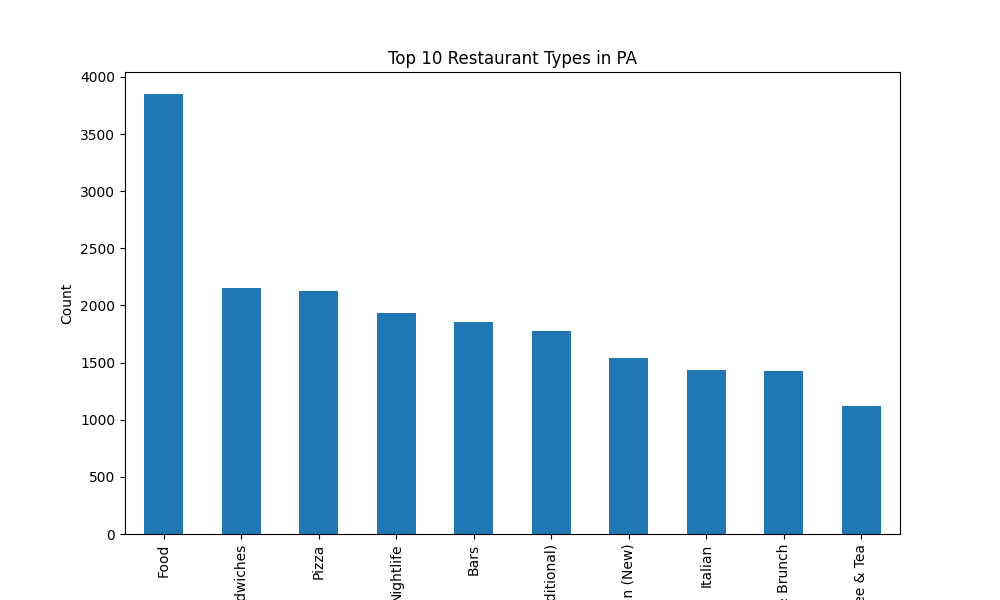
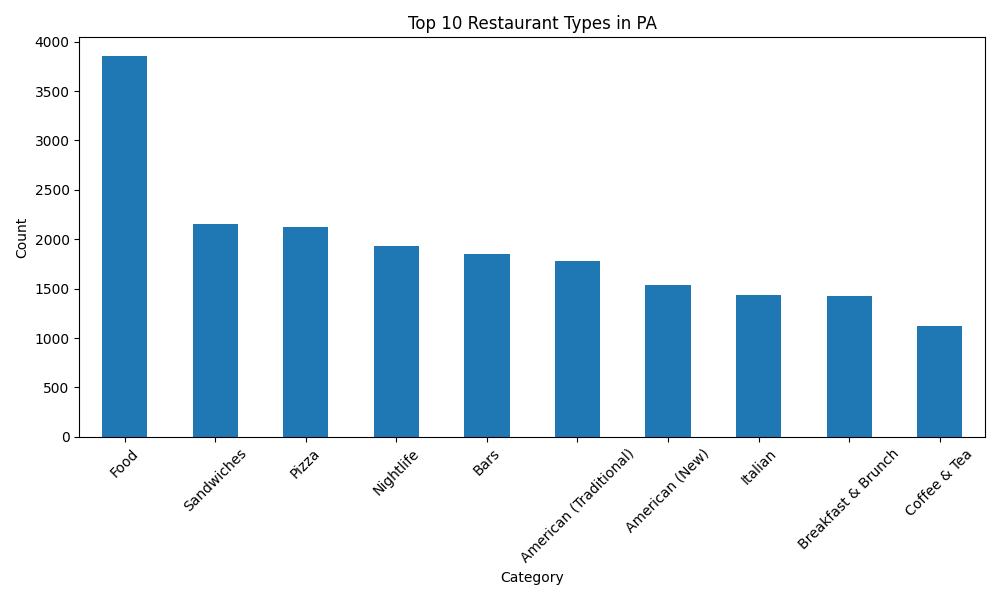
Increasing modularity of EDA script and updating output graphs

diff --git a/scripts/eda/eda.py b/scripts/eda/eda.py
@@ -4,112 +4,48 @@ from collections import Counter
 import matplotlib.pyplot as plt
 import pandas as pd
 
+# Set up logging
 logging.basicConfig(level=logging.INFO)
 logger = logging.getLogger(__name__)
 
+# Set Pandas display option
 pd.set_option('display.max_columns', None)
 
+# Define paths to data
 business_path = "C:\\Users\\shour\\PycharmProjects\\MangiaMetrics_628\\data\\raw\\business.json"
-# business_df = pd.read_json(business_path, lines=True, chunksize=10000)
 
-# Define chunk size
-chunk_size = 10000  # Adjust this based on your machine's memory capability
-
-# Initialize an empty DataFrame to hold filtered data
+# Initialize DataFrame to hold business data
 business_data_pa = pd.DataFrame()
 
 
-# Function to process and filter each chunk
-def process_business_chunk(chunk):
-    # Filter for businesses in Pennsylvania (PA)
-    return chunk[chunk['state'] == 'PA']
+# Function definitions
+def load_data_in_chunks(file_path, chunk_size, filter_state='PA'):
+    temp_df = pd.DataFrame()
+    for chunk in pd.read_json(file_path, lines=True, chunksize=chunk_size, dtype={'postal_code': str}):
+        temp_df = pd.concat([temp_df, chunk[chunk['state'] == filter_state]])
+    return temp_df
 
 
-# Read and process the file in chunks
-for chunk in pd.read_json(business_path, lines=True, chunksize=chunk_size, dtype={'postal_code': str}):
-    filtered_chunk = process_business_chunk(chunk)
-    business_data_pa = pd.concat([business_data_pa, filtered_chunk])
-
-
-# Display the first few rows of the filtered DataFrame
-# print(business_data_pa.head())
-
-# Part 2
 def count_categories(dataframe):
     category_counts = Counter()
     for row in dataframe['categories']:
-        if row:  # Check if the category is not NaN
+        if row:
             categories = row.split(', ')
             category_counts.update(categories)
     return category_counts
 
 
-# Count categories in the PA business data
-pa_category_counts = count_categories(business_data_pa)
-
-
-# Display the most common categories
-# print("Most common categoris in PA:")
-# for category, count in pa_category_counts.most_common(10):
-#     print(f"{category}: {count}")
-
-# Plotting the top categories
-# top_categories = pa_category_counts.most_common(10)
-# categories, counts = zip(*top_categories)
-# plt.figure(figsize=(10, 6))
-# plt.bar(categories, counts)
-# plt.xticks(rotation=45)
-# plt.title('Top 10 business categories in PA')
-# plt.xlabel('Category')
-# plt.ylabel('Count')
-
-
-# plt.savefig('Top_10_businesses_in_PA.png')
-# plt.show()
-
-# Part 3
-# Adjusted function to handle None values in 'categories'
 def extract_restaurant_types(row):
     if row['categories'] and 'Restaurants' in row['categories']:
-        # Extract and return the list of restaurant types/categories
         return [category.strip() for category in row['categories'].split(',') if category.strip() != 'Restaurants']
     return []
 
 
-# Apply the function to the DataFrame
-business_data_pa['restaurant_types'] = business_data_pa.apply(extract_restaurant_types, axis=1)
-
-# Flatten the list of types and count occurrences
-restaurant_type_counts = pd.Series(
-    [item for sublist in business_data_pa['restaurant_types'] for item in sublist]).value_counts()
-
-# Display the most common restaurant types
-# print("Most common restaurant types in PA:")
-# print(restaurant_type_counts.head(10))
-
-# Plot the results
-restaurant_type_counts.head(10).plot(kind='bar', figsize=(10, 6), title='Top 10 Restaurant Types in PA')
-plt.xlabel('Restaurant Type')
-plt.ylabel('Count')
-# plt.savefig('Top_10_restaurant_types_in_PA.pnga')
-# plt.show()
-
-
-# Part 4.1
-
-# Define function to filter specific restaurant categories
 def filter_specific_categories(dataframe, category_list):
-    filtered_df = dataframe[
+    return dataframe[
         dataframe['restaurant_types'].apply(lambda types: any(cat in types for cat in category_list))]
-    return filtered_df
 
 
-# Filter for 'Italian' and 'Breakfast & Brunch' categories
-italian_restaurants = filter_specific_categories(business_data_pa, ['Italian'])
-breakfast_brunch_restaurants = filter_specific_categories(business_data_pa, ['Breakfast & Brunch'])
-
-
-# Function to calculate basic metrics for a category
 def calculate_basic_metrics(df, category_name):
     average_rating = df['stars'].mean()
     total_restaurants = len(df)
@@ -117,9 +53,43 @@ def calculate_basic_metrics(df, category_name):
     print(f"Metrics for {category_name}:")
     print(f"Total Restaurants: {total_restaurants}")
     print(f"Average Rating: {average_rating:.2f}")
-    print(f"Average Review Count: {average_review_count:.2f}\n")
+    print(f"Average Review Count: {average_review_count:.2f}")
 
 
-# Calculate and display metrics for Italian and Breakfast & Brunch restaurants
-calculate_basic_metrics(italian_restaurants, 'Italian')
-calculate_basic_metrics(breakfast_brunch_restaurants, 'Breakfast & Brunch')
+def plot_category_counts(counter, title, file_name):
+    # Convert the Counter object to a Panda Series
+    series = pd.Series(counter)
+    top_categories = series.nlargest(10)
+    top_categories.plot(kind='bar', figsize=(10, 6))
+    plt.xticks(rotation=45)
+    plt.title(title)
+    plt.xlabel('Category')
+    plt.ylabel('Count')
+    plt.tight_layout()  # Adjust layout to fit labels
+    plt.savefig(file_name)
+    plt.close()
+
+
+# Main function to call all tasks
+def main():
+    chunk_size = 10000  # Adjust based on your system's memory capability
+    business_data_pa = load_data_in_chunks(business_path, chunk_size)
+
+    # Uncomment the following lines to perform the respective tasks
+    pa_category_counts = count_categories(business_data_pa)
+    plot_category_counts(pa_category_counts, 'Top 10 Business Categories in PA', 'Top_10_business_categories_in_PA.png')
+
+    business_data_pa['restaurant_types'] = business_data_pa.apply(extract_restaurant_types, axis=1)
+    restaurant_type_counts = pd.Series(
+        [item for sublist in business_data_pa['restaurant_types'] for item in sublist]).value_counts()
+    plot_category_counts(restaurant_type_counts, 'Top 10 Restaurant Types in PA', 'Top_10_restaurant_types_in_PA.png')
+
+    italian_restaurants = filter_specific_categories(business_data_pa, ['Italian'])
+    breakfast_brunch_restaurants = filter_specific_categories(business_data_pa, ['Breakfast & Brunch'])
+    calculate_basic_metrics(italian_restaurants, 'Italian')
+    calculate_basic_metrics(breakfast_brunch_restaurants, 'Breakfast & Brunch')
+
+
+# Call the main function
+if __name__ == "__main__":
+    main()
